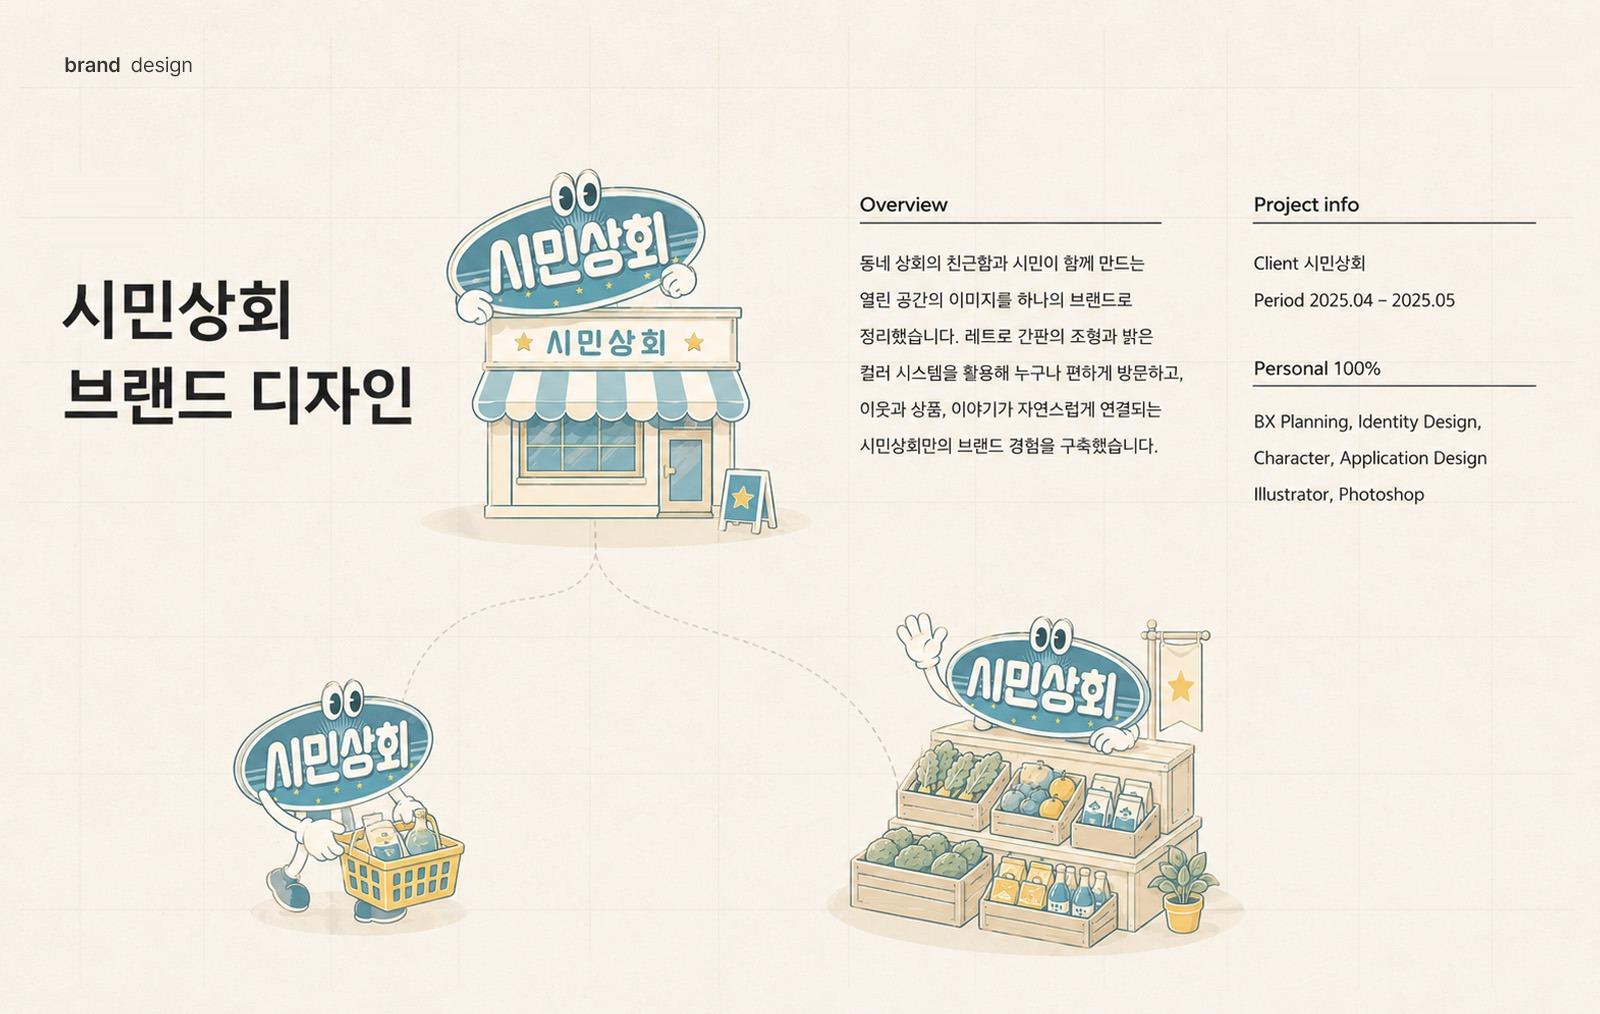
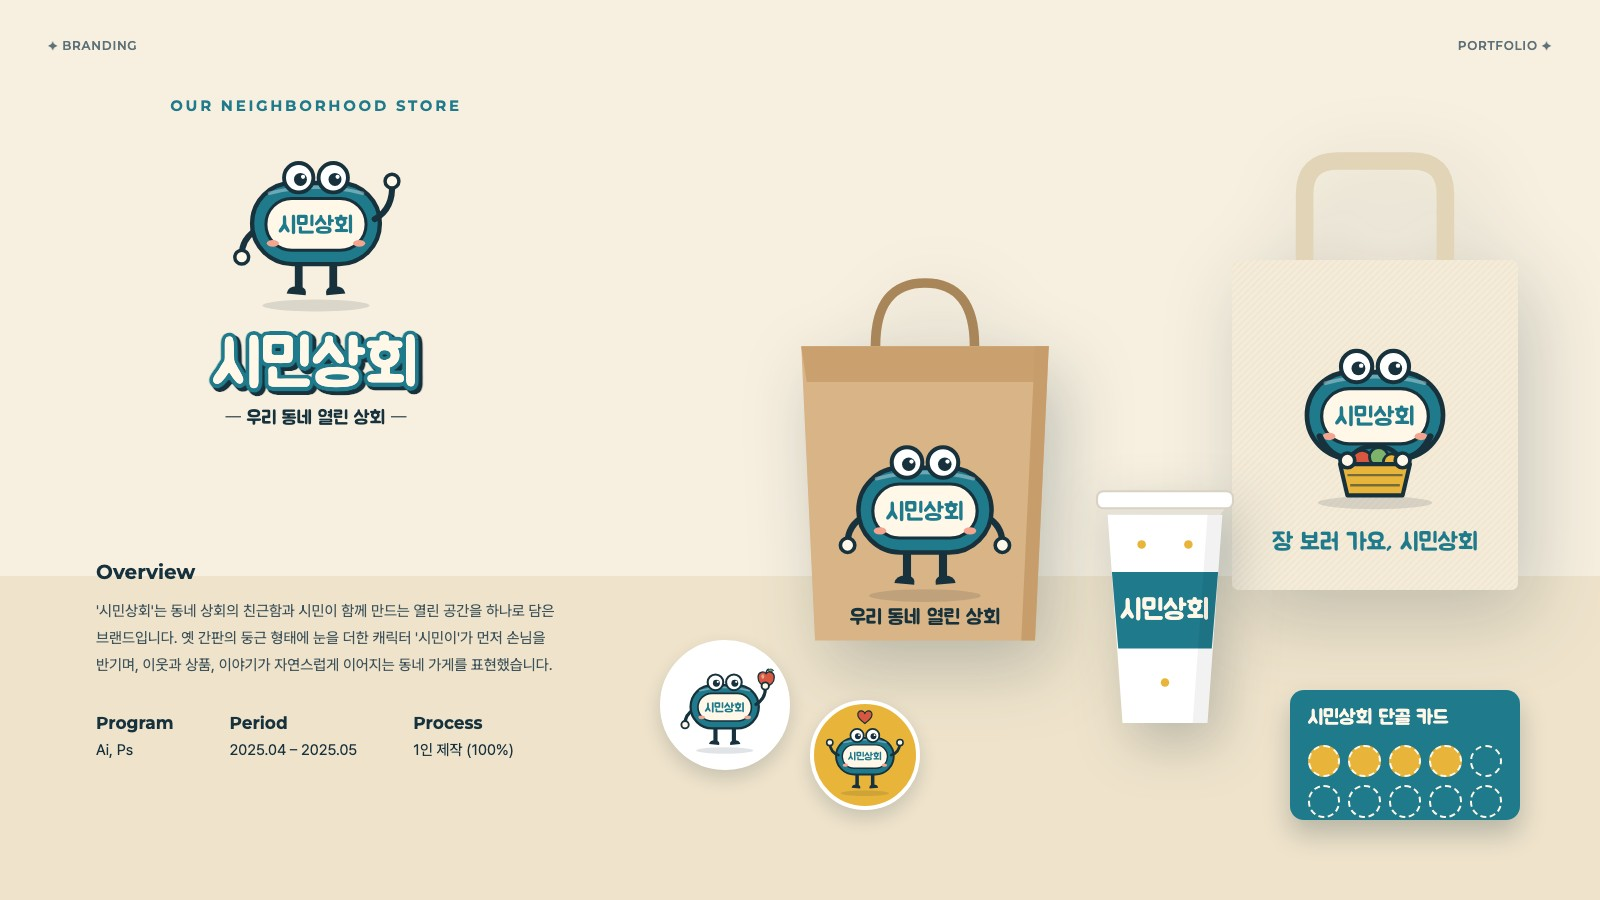
Redesign Simin Sanghoe branding as a 7-slide case study

diff --git a/js/data.js b/js/data.js
@@ -50,7 +50,7 @@ const CATEGORIES = {
 };
 
 // 이미지를 교체하면 IMG_VERSION을 바꿔주세요. 브라우저가 예전 이미지를 다시 쓰지 않게 합니다.
-const IMG_VERSION = "20261014b";
+const IMG_VERSION = "20261014c";
 const shots = (id, n) =>
   Array.from({ length: n }, (_, i) => `assets/works/${id}/${String(i + 1).padStart(2, "0")}.jpg?v=${IMG_VERSION}`);
 
@@ -105,14 +105,14 @@ const PROJECTS = [
   {
     id: "siminsanghoe",
     title: "시민상회 브랜드 디자인",
-    subtitle: "Brand identity · Character",
+    subtitle: "Brand identity · Character · Application",
     category: ["bx"],
     year: "2025.04 — 2025.05",
     role: "BX Planning, Identity Design, Character, Application (100%)",
     tools: "Illustrator, Photoshop",
-    images: shots("siminsanghoe", 2),
+    images: shots("siminsanghoe", 7),
     summary:
-      "동네 상회의 친근함과 시민이 함께 만드는 열린 공간의 이미지를 하나의 브랜드로 정리했습니다. 레트로 간판의 조형과 밝은 컬러 시스템으로 이웃과 상품, 이야기가 자연스럽게 연결되는 브랜드 경험을 만들었습니다.",
+      "동네 상회의 친근함과 시민이 함께 만드는 열린 공간의 이미지를 하나의 브랜드로 정리했습니다. 옛 간판의 둥근 형태에 눈과 손발을 더한 캐릭터 '시민이'를 중심으로 로고, 컬러, 일러스트 시스템을 만들고 매장 외관, 패키지, 굿즈, SNS까지 적용했습니다.",
   },
   {
     id: "emart-package",

diff --git a/index.html b/index.html
@@ -72,7 +72,7 @@
 
   <footer class="wrap footer">© <span data-year></span> <span data-name-en></span></footer>
 
-  <script src="js/data.js?v=img-version-20261014b"></script>
-  <script src="js/main.js?v=img-version-20261014b"></script>
+  <script src="js/data.js?v=simin-20261014c"></script>
+  <script src="js/main.js?v=simin-20261014c"></script>
 </body>
 </html>

diff --git a/project.html b/project.html
@@ -32,7 +32,7 @@
 
   <footer class="wrap footer">© <span data-year></span> <span data-name-en></span></footer>
 
-  <script src="js/data.js?v=img-version-20261014b"></script>
-  <script src="js/main.js?v=img-version-20261014b"></script>
+  <script src="js/data.js?v=simin-20261014c"></script>
+  <script src="js/main.js?v=simin-20261014c"></script>
 </body>
 </html>
